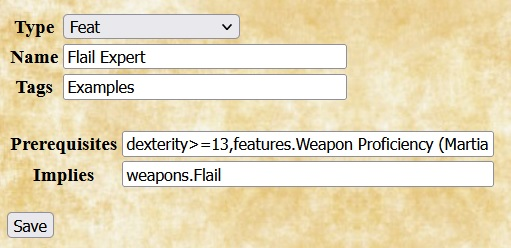
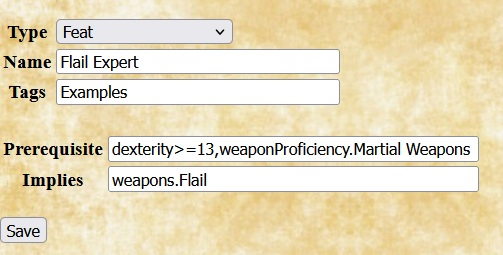
Correct a prerequisite in the homebrew feat example.

diff --git a/plugins/homebrew-srd5e.html b/plugins/homebrew-srd5e.html
@@ -208,8 +208,8 @@ effects of a feat are entered separately as
 <a href="#feature">homebrew feature</a> of the same name.
 </p><p>
 The example shows the entry for a feat named Flail Expert. The Prerequisite box
-notes that it requires a dexterity value of at least 13 and Weapon Proficiency
-(Martial) to select the feat, and the Implies box notes that the feat is
+notes that it requires a dexterity value of at least 13 and proficiency with
+martial weapons to select the feat, and the Implies box notes that the feat is
 useless unless the character possesses a flail. The example also shows the
 corresponding feature that describes the effect of selecting the Flail Expert
 feat.
